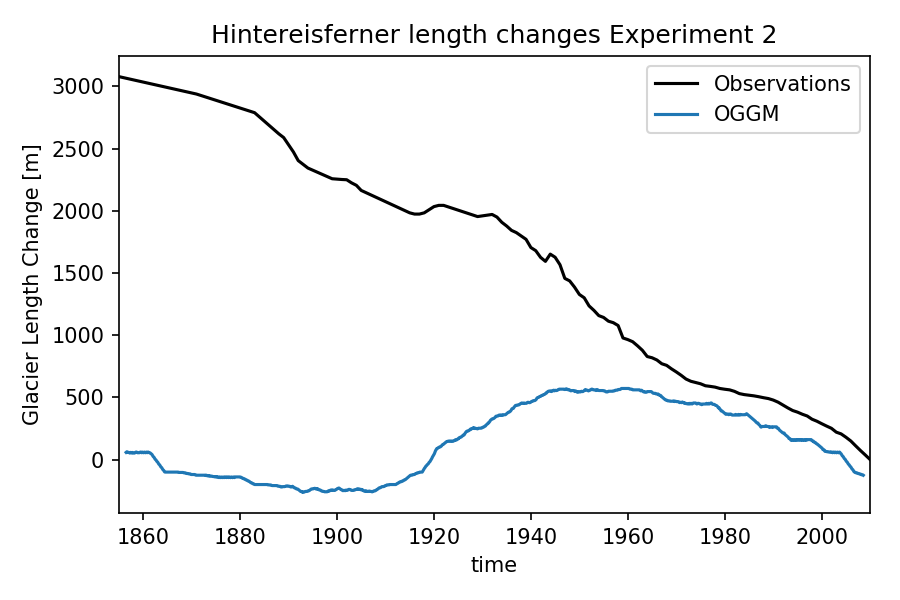
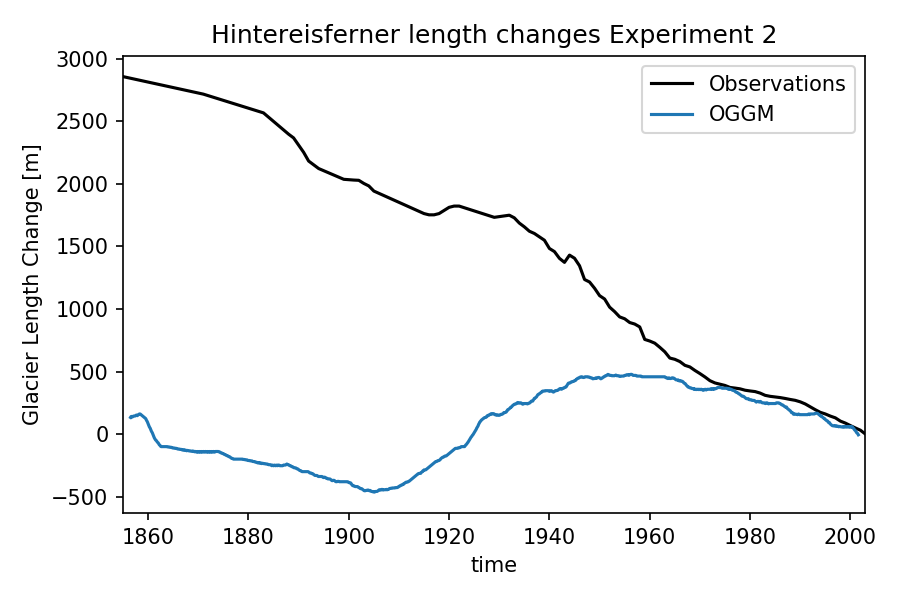
Update blog post

diff --git a/_posts/2017-10-23-length-changes.md b/_posts/2017-10-23-length-changes.md
@@ -7,11 +7,13 @@ date: 2017-10-23T00:00:00
 tags: science model
 ---
 
-*Note: this blog post is a work in progress and it might be edited in the
-future. The code used to generate the plots will be made available soon.*
+*Note: this blog post is a work in progress and it might be edited for content
+from time to time.*
 
-With this short note we illustrate how the non-linear behavior of glaciers can
-make the job of linking climate change to glacier length changes can be quite
+*The code used to generate the plots available [here](https://github.com/OGGM/oggm/blob/master/docs/notebooks/dynamics_and_length_changes.ipynb).*
+
+With this short note we illustrate why the non-linear behavior of glaciers
+make the job of linking climate change to glacier length changes quite
 a challenging task.
 
 Our study glacier is the [Hintereisferner](http://acinn.uibk.ac.at/research/ice-and-climate/projects/opal),
@@ -37,7 +39,7 @@ and the glacier responds to them.
 ## Experiment 2: wrong initial state
 
 Now we drive the glacier run with real climate data (obtained from
-[HISTALP](http://www.zamg.ac.at/histalp/)) during the period 1850-2010 and we
+[HISTALP](http://www.zamg.ac.at/histalp/)) during the period 1855-2003 and we
 compare the modeled length changes with observations from P. Leclercq's
 [glacier length fluctuations database](https://folk.uio.no/paulwl/length.php).
 
@@ -49,8 +51,8 @@ model with today's glacier geometry**. Let's see what happens:
 
 This result is particularly interesting: *if the 1850 Hintereisferner was
 as big as it is today, it would still be of the same size today*. How is this
-possible? I don't think this has something to do with a model error (as we show
-below). There is another simple explanation: today's Hintereisferner would
+possible? I don't think this has something to do with a model error, and  
+there is another simple explanation: today's Hintereisferner would
 be too small for the 1900's climate (i.e. in disequilibrium). As shown by the
 model output, the glacier grows during the colder first half of the
 20th century as a response to it's small size, and starts to melt again as
@@ -59,7 +61,7 @@ delayed response to the warming of the second half of the century.
 ## Experiment 3: a better initial state
 
 In fact, we know that the glacier was much larger than it is today (about 3 km
-longer according to observations). With OGGM, we then let the glacier grow
+longer according to observations). With OGGM, we now let the glacier grow
 under a colder climate[^1] and use this larger glacier as initial conditions
 for our past climate simulation:
 
@@ -77,8 +79,8 @@ cold during this period (also plausible).
 
 To test the model sensitivity to the ice creep parameter A (see the
 [documentation](http://oggm.readthedocs.io/en/latest/ice-dynamics.html) for more
-info), we now replicate our experiment after increasing the default A o 50%
-(this implies a more fluid ice). We
+info), we now replicate our experiment but *double the values of the
+ice creep parameter A* (this implies a more fluid ice). We
 grow our glacier to the desired length and run our past model again:
 
 <a href="/img/blog/length-changes/lengths_from_colder_2.png"><img src="/img/blog/length-changes/lengths_from_colder_2.png" alt="Image missing" width="100%" /></a>
@@ -91,13 +93,31 @@ pause. This might be an indication for an inadequate climate forcing.
 
 *If the initial glacier state is known*, it is relatively trivial to tune the
 model for good results (at least in the Hintereisferner case). In a blind run,
-one can show that unrealistic initial conditions can lead to realistic
-end conditions with a completely wrong path in between (see experiment 1).
+one can show that unrealistic initial conditions can lead to a plausible
+present day glacier with a completely wrong path in between (experiment 1).
 
 What do we do from here? The OGGM team members are now working hard on this
 issue, and are exploring several ways to go forward. In a first step, we are
 likely to adopt a stochastic approach in which many possible initial states are
 tested and selected based on the model response.
+
+## Addendum
+
+We have shown that the *initial glacier state* is important for length changes.
+But how long is the initial state influencing the glacier behavior in a given
+climate? The answer will depend on the size of the glacier, but for
+Hintereisferner we can run a simple experiment again: we let the glacier grow
+at various sizes and then run the model with past climate simulations
+from the [CESM model](http://www.cesm.ucar.edu/models/). The climate forcing is
+therefore the same for all simulations (from 1600 to 2003):
+
+<a href="/img/blog/length-changes/lengths_from_cesm.png"><img src="/img/blog/length-changes/lengths_from_cesm.png" alt="Image missing" width="100%" /></a>
+
+The good news is that the initial state has a visible influence during the
+first 150 years or so. This indicates that climate is the most important
+driver of length changes at long time scales (in particular in this shrinking
+case). The bad news is, the CESM data seem to be too warm for most of the
+period and shows a very small Little Ice Age signal. 
 
 ### Notes
 
